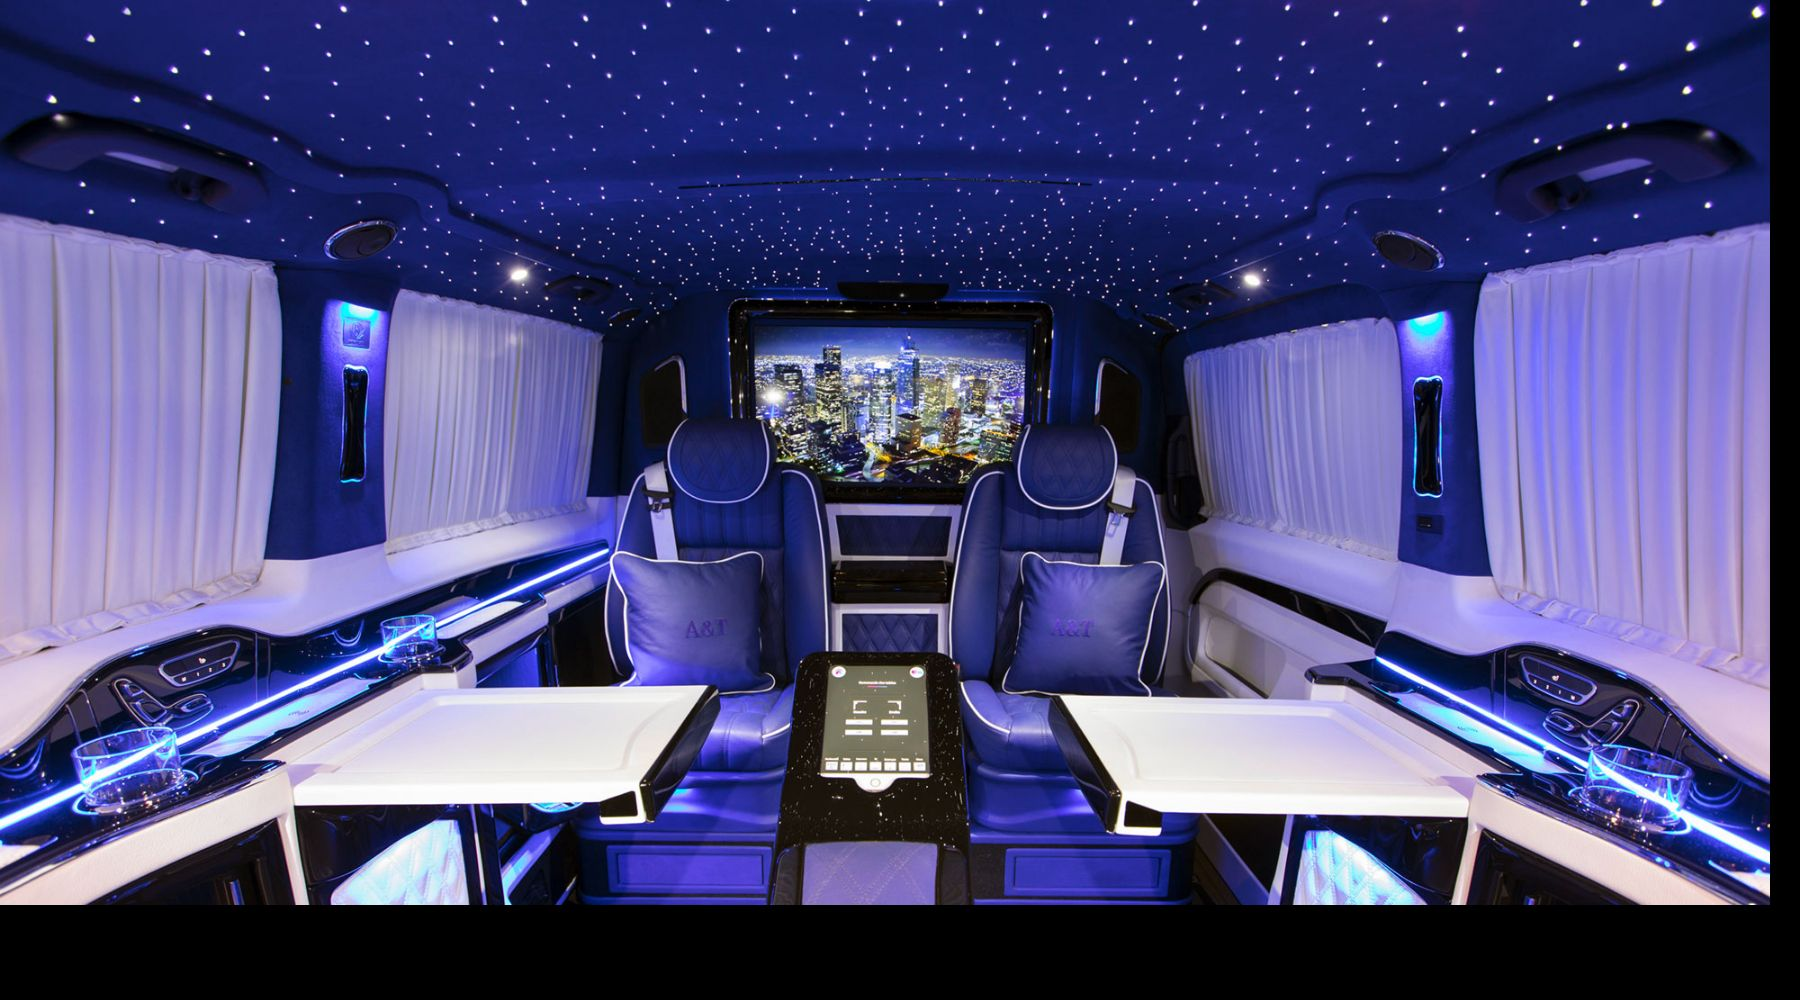
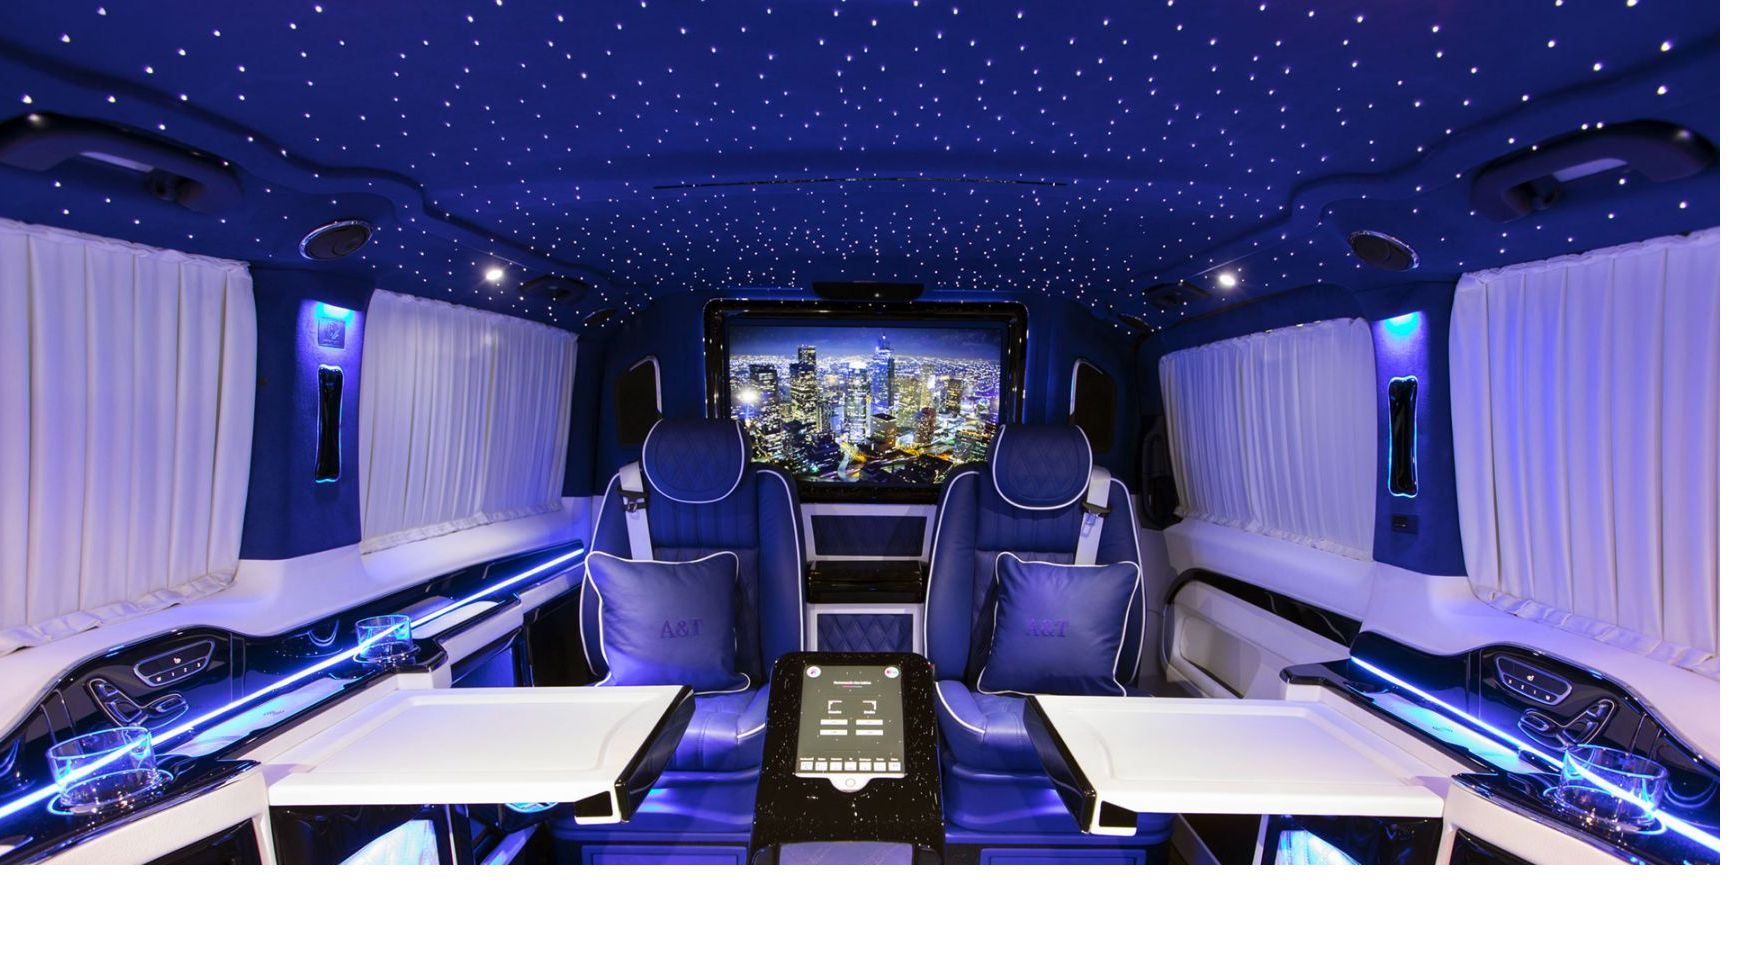
Clean VIP image (black bars removed) + simple cover CSS

diff --git a/vehicules.html b/vehicules.html
@@ -74,8 +74,7 @@
 @media(max-width:768px){
   .cell-vip{padding:0 !important;}
   .vip-img-wrap,.vip-img{margin:0 !important;padding:0 !important;width:100% !important;}
-  /* Aspect ratio match image native (16/9) + position pour exclure les bandes noires */
-  .vip-img{aspect-ratio:16/9;object-fit:cover;object-position:left top;transform:scale(1.06);transform-origin:left top;display:block;}
+  .vip-img{aspect-ratio:16/9;object-fit:cover;object-position:center;transform:none;display:block;}
   .vip-content{padding:28px 20px;}
 }
 .vip-title{font-family:'Playfair Display',serif;font-size:1.5rem;background:linear-gradient(135deg,var(--gold-light),var(--gold));-webkit-background-clip:text;-webkit-text-fill-color:transparent;background-clip:text;margin-bottom:10px;}
